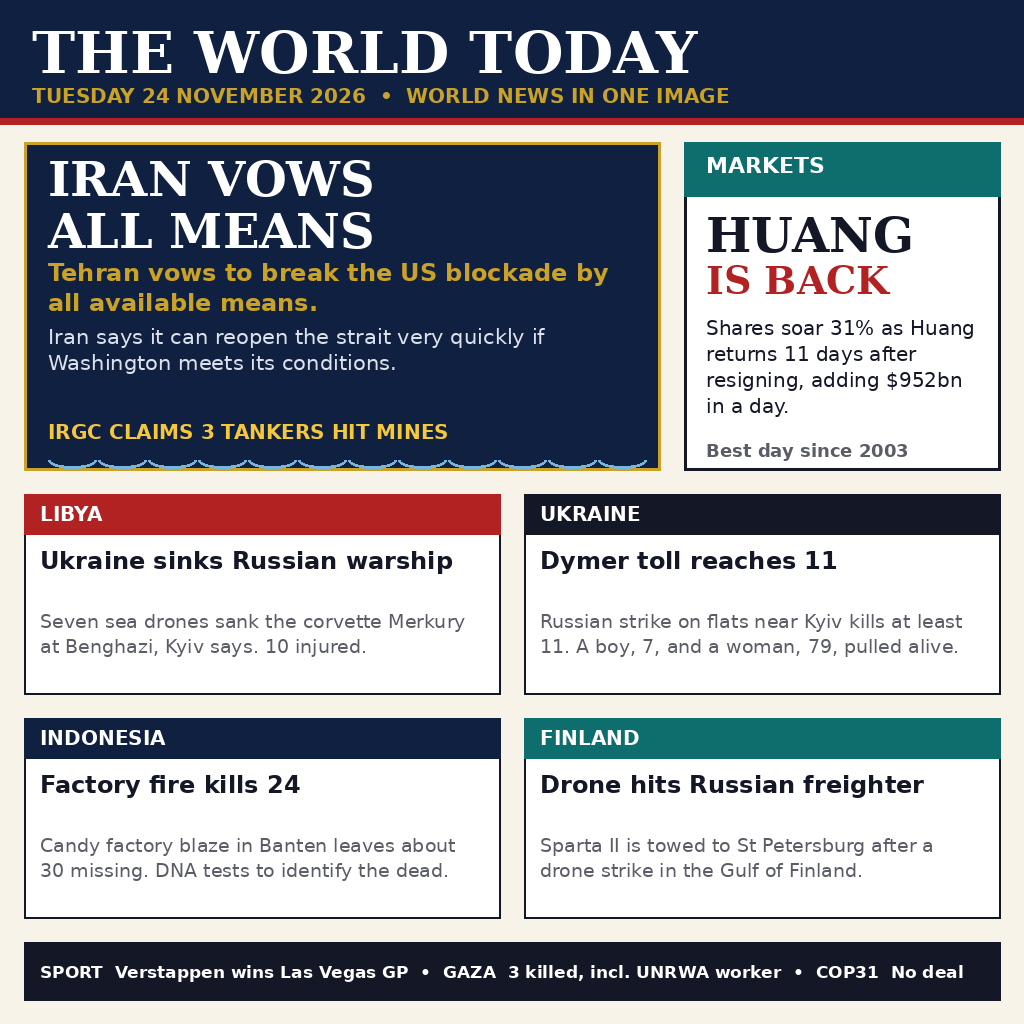
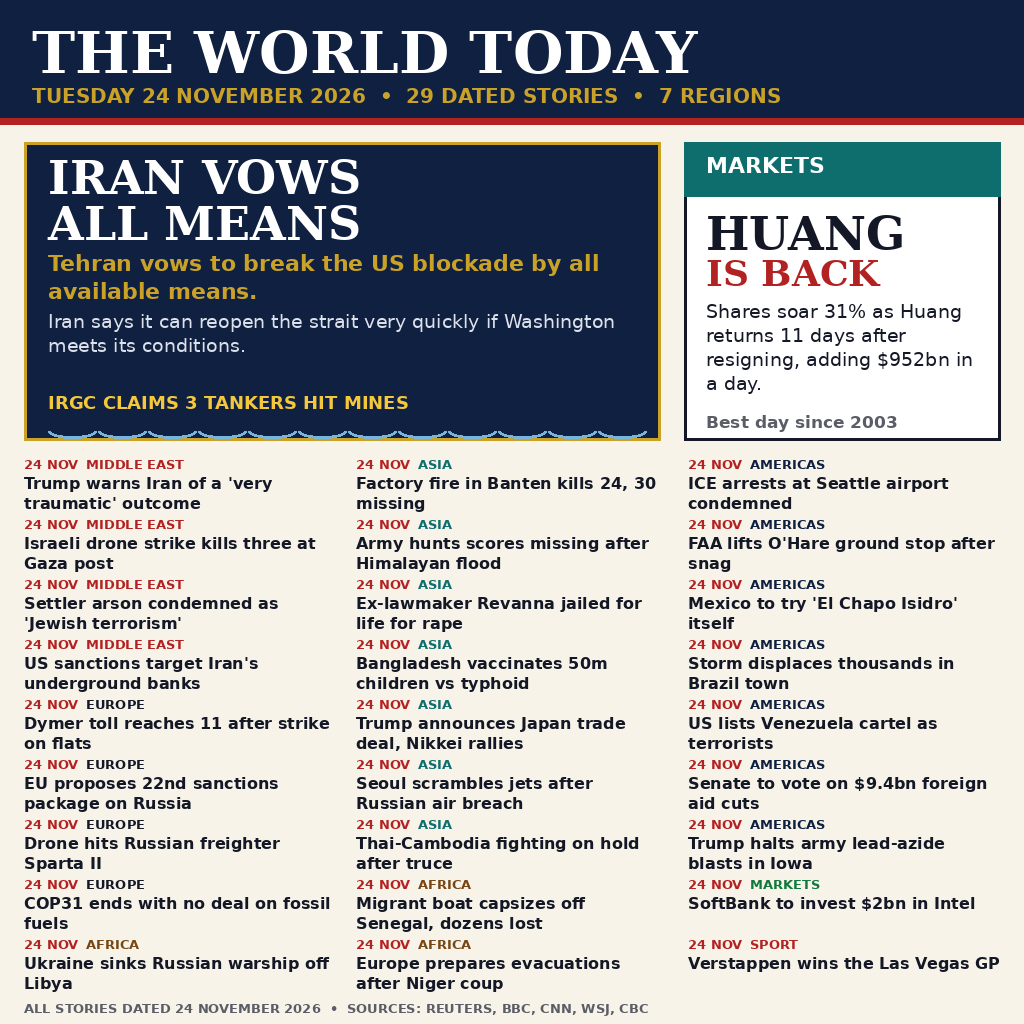
Dense edition: 29 dated stories, 7 regions

Changed region(s): [[0.0, 0.1562, 1.0, 1.0], [0.4062, 0.0625, 0.75, 0.125]]

diff --git a/render.py b/render.py
@@ -1,9 +1,11 @@
 """Render the 24 November 2026 world-news front page, 1024x1024 PNG.
 
+Dense edition: 29 dated stories across 7 regions (2 hero stories plus
+27 dated wire items), the format the 22 November winner used.
 Deterministic: no randomness, no timestamps, no network. Running this
 script twice writes identical bytes (PIL writes no time chunk).
-Headlines verified live on 24 Nov 2026 from Reuters, BBC/France 24 via
-One Turn, BusinessWorld/Reuters, CNN and the Wall Street Journal.
+Headlines verified live on 24 Nov 2026 from Reuters, BBC, CNN, Wall
+Street Journal, CBC World Report, and the day's news roundups.
 """
 import os
 from PIL import Image, ImageDraw, ImageFont
@@ -18,6 +20,7 @@ TEAL = (14, 110, 110)
 GREY = (90, 92, 102)
 WHITE = (255, 255, 255)
 GREEN = (16, 120, 60)
+BROWN = (120, 70, 20)
 
 F = "/usr/share/fonts/truetype/dejavu/"
 
@@ -29,6 +32,47 @@ def font(name, size):
 SERIF = "DejaVuSerif-Bold.ttf"
 SANS = "DejaVuSans.ttf"
 SANS_B = "DejaVuSans-Bold.ttf"
+
+REGION_COLORS = {
+    "MIDDLE EAST": RED,
+    "EUROPE": INK,
+    "ASIA": TEAL,
+    "AMERICAS": NAVY,
+    "AFRICA": BROWN,
+    "MARKETS": GREEN,
+    "SPORT": RED,
+}
+
+# 27 dated wire items, 3 columns of 9: (region, headline).
+WIRE = [
+    ("MIDDLE EAST", "Trump warns Iran of a 'very traumatic' outcome"),
+    ("MIDDLE EAST", "Israeli drone strike kills three at Gaza post"),
+    ("MIDDLE EAST", "Settler arson condemned as 'Jewish terrorism'"),
+    ("MIDDLE EAST", "US sanctions target Iran's underground banks"),
+    ("EUROPE", "Dymer toll reaches 11 after strike on flats"),
+    ("EUROPE", "EU proposes 22nd sanctions package on Russia"),
+    ("EUROPE", "Drone hits Russian freighter Sparta II"),
+    ("EUROPE", "COP31 ends with no deal on fossil fuels"),
+    ("AFRICA", "Ukraine sinks Russian warship off Libya"),
+    ("ASIA", "Factory fire in Banten kills 24, 30 missing"),
+    ("ASIA", "Army hunts scores missing after Himalayan flood"),
+    ("ASIA", "Ex-lawmaker Revanna jailed for life for rape"),
+    ("ASIA", "Bangladesh vaccinates 50m children vs typhoid"),
+    ("ASIA", "Trump announces Japan trade deal, Nikkei rallies"),
+    ("ASIA", "Seoul scrambles jets after Russian air breach"),
+    ("ASIA", "Thai-Cambodia fighting on hold after truce"),
+    ("AFRICA", "Migrant boat capsizes off Senegal, dozens lost"),
+    ("AFRICA", "Europe prepares evacuations after Niger coup"),
+    ("AMERICAS", "ICE arrests at Seattle airport condemned"),
+    ("AMERICAS", "FAA lifts O'Hare ground stop after snag"),
+    ("AMERICAS", "Mexico to try 'El Chapo Isidro' itself"),
+    ("AMERICAS", "Storm displaces thousands in Brazil town"),
+    ("AMERICAS", "US lists Venezuela cartel as terrorists"),
+    ("AMERICAS", "Senate to vote on $9.4bn foreign aid cuts"),
+    ("AMERICAS", "Trump halts army lead-azide blasts in Iowa"),
+    ("MARKETS", "SoftBank to invest $2bn in Intel"),
+    ("SPORT", "Verstappen wins the Las Vegas GP"),
+]
 
 
 def wrap(draw, text, fnt, width):
@@ -56,80 +100,72 @@ def text_block(draw, x, y, text, fnt, color, width, leading=None):
 
 
 def main():
+    assert len(WIRE) == 27, "wire must hold 27 items"
     img = Image.new("RGB", (W, H), BG)
     d = ImageDraw.Draw(img)
     # masthead
     d.rectangle([0, 0, W, 118], fill=NAVY)
     d.text((32, 18), "THE WORLD TODAY", font=font(SERIF, 58), fill=WHITE)
-    d.text((32, 84), "TUESDAY 24 NOVEMBER 2026  •  WORLD NEWS IN ONE IMAGE",
+    d.text((32, 84), "TUESDAY 24 NOVEMBER 2026  •  29 DATED STORIES  •  7 REGIONS",
            font=font(SANS_B, 20), fill=GOLD)
     d.rectangle([0, 118, W, 124], fill=RED)
 
     # hero: Hormuz
-    d.rectangle([24, 142, 660, 470], fill=NAVY)
-    d.rectangle([24, 142, 660, 470], outline=GOLD, width=3)
-    d.text((48, 150), "IRAN VOWS", font=font(SERIF, 48), fill=WHITE)
-    d.text((48, 202), "ALL MEANS", font=font(SERIF, 48), fill=WHITE)
-    y, n = text_block(d, 48, 258,
+    d.rectangle([24, 142, 660, 440], fill=NAVY)
+    d.rectangle([24, 142, 660, 440], outline=GOLD, width=3)
+    d.text((48, 150), "IRAN VOWS", font=font(SERIF, 46), fill=WHITE)
+    d.text((48, 196), "ALL MEANS", font=font(SERIF, 46), fill=WHITE)
+    y, n = text_block(d, 48, 250,
                       "Tehran vows to break the US blockade by all available means.",
-                      font(SANS_B, 24), GOLD, 590, 30)
+                      font(SANS_B, 22), GOLD, 590, 28)
     print("hero sub lines:", n, "ends y:", y)
-    y, n = text_block(d, 48, y + 6,
+    y, n = text_block(d, 48, y + 4,
                       "Iran says it can reopen the strait very quickly if Washington meets its conditions.",
-                      font(SANS, 21), (220, 225, 235), 590, 26)
+                      font(SANS, 19), (220, 225, 235), 590, 24)
     print("hero body lines:", n, "ends y:", y)
-    assert y <= 410, "hero body overflows into banner"
-    d.text((48, 420), "IRGC CLAIMS 3 TANKERS HIT MINES",
-           font=font(SANS_B, 20), fill=(245, 200, 60))
+    assert y <= 386, "hero body overflows into banner"
+    d.text((48, 392), "IRGC CLAIMS 3 TANKERS HIT MINES",
+           font=font(SANS_B, 18), fill=(245, 200, 60))
     for i in range(12):
         wx = 48 + i * 50
-        d.arc([wx, 452, wx + 48, 468], 0, 180, fill=(120, 180, 220), width=3)
+        d.arc([wx, 424, wx + 48, 438], 0, 180, fill=(120, 180, 220), width=3)
 
-    # right panel: Nvidia
-    d.rectangle([684, 142, 1000, 470], fill=(255, 255, 255))
-    d.rectangle([684, 142, 1000, 470], outline=INK, width=3)
+    # hero right: Nvidia
+    d.rectangle([684, 142, 1000, 440], fill=(255, 255, 255))
+    d.rectangle([684, 142, 1000, 440], outline=INK, width=3)
     d.rectangle([684, 142, 1000, 196], fill=TEAL)
     d.text((706, 152), "MARKETS", font=font(SANS_B, 22), fill=WHITE)
-    d.text((706, 206), "HUANG", font=font(SERIF, 48), fill=INK)
-    d.text((706, 258), "IS BACK", font=font(SERIF, 38), fill=RED)
-    y, n = text_block(d, 706, 316,
+    d.text((706, 206), "HUANG", font=font(SERIF, 46), fill=INK)
+    d.text((706, 252), "IS BACK", font=font(SERIF, 36), fill=RED)
+    y, n = text_block(d, 706, 300,
                       "Shares soar 31% as Huang returns 11 days after resigning, adding $952bn in a day.",
-                      font(SANS, 20), INK, 272, 26)
+                      font(SANS, 19), INK, 272, 24)
     print("nvidia body lines:", n, "ends y:", y)
-    assert y <= 432, "nvidia body overflows into footer"
-    d.text((706, 440), "Best day since 2003", font=font(SANS_B, 18), fill=GREY)
+    assert y <= 402, "nvidia body overflows into footer"
+    d.text((706, 412), "Best day since 2003", font=font(SANS_B, 17), fill=GREY)
 
-    # middle grid: 4 stories, 2x2
-    stories = [
-        ("LIBYA", RED, "Ukraine sinks Russian warship",
-         "Seven sea drones sank the corvette Merkury at Benghazi, Kyiv says. 10 injured."),
-        ("UKRAINE", INK, "Dymer toll reaches 11",
-         "Russian strike on flats near Kyiv kills at least 11. A boy, 7, and a woman, 79, pulled alive."),
-        ("INDONESIA", NAVY, "Factory fire kills 24",
-         "Candy factory blaze in Banten leaves about 30 missing. DNA tests to identify the dead."),
-        ("FINLAND", TEAL, "Drone hits Russian freighter",
-         "Sparta II is towed to St Petersburg after a drone strike in the Gulf of Finland."),
-    ]
-    x0, y0, cw, ch, gap = 24, 494, 476, 200, 24
-    for i, (tag, col, head, body) in enumerate(stories):
-        x = x0 + (i % 2) * (cw + gap)
-        y = y0 + (i // 2) * (ch + gap)
-        d.rectangle([x, y, x + cw, y + ch], fill=WHITE)
-        d.rectangle([x, y, x + cw, y + ch], outline=INK, width=2)
-        d.rectangle([x, y, x + cw, y + 40], fill=col)
-        d.text((x + 16, y + 8), tag, font=font(SANS_B, 20), fill=WHITE)
-        y2, n1 = text_block(d, x + 16, y + 52, head, font(SANS_B, 24), INK, cw - 32, 30)
-        y3, n2 = text_block(d, x + 16, y + 116, body, font(SANS, 19), GREY, cw - 32, 25)
-        print("panel", tag, "headline lines:", n1, "body lines:", n2, "body ends y:", y3)
-        assert n1 <= 2 and y3 <= y + ch - 8, "panel overflows: " + tag
+    # wire: 3 columns x 9 dated items
+    col_x = [24, 356, 688]
+    col_w = 312
+    slot = 60
+    y0 = 456
+    for i, (region, head) in enumerate(WIRE):
+        col = i // 9
+        row = i % 9
+        x = col_x[col]
+        y = y0 + row * slot
+        d.text((x, y), "24 NOV", font=font(SANS_B, 13), fill=RED)
+        d.text((x + 62, y), region, font=font(SANS_B, 13),
+               fill=REGION_COLORS[region])
+        _, n = text_block(d, x, y + 18, head, font(SANS_B, 16), INK,
+                          col_w, 20)
+        print("wire", i + 1, region, "lines:", n)
+        assert n <= 2, "wire headline overflows its slot: " + head
+        assert y + 58 <= y0 + 9 * slot, "wire item overflows the grid"
 
-    # bottom strip: sport + Gaza + COP31
-    strip = "SPORT  Verstappen wins Las Vegas GP  •  GAZA  3 killed, incl. UNRWA worker  •  COP31  No deal"
-    sw = d.textlength(strip, font=font(SANS_B, 17))
-    print("strip width:", sw, "limit:", 1000 - 40)
-    assert sw <= 1000 - 40, "bottom strip overflows"
-    d.rectangle([24, 942, 1000, 1000], fill=INK)
-    d.text((40, 962), strip, font=font(SANS_B, 17), fill=WHITE)
+    # footer: source line in the strip the grid leaves free
+    d.text((24, 1000), "ALL STORIES DATED 24 NOVEMBER 2026  •  SOURCES: REUTERS, BBC, CNN, WSJ, CBC",
+           font=font(SANS_B, 13), fill=GREY)
 
     out = os.path.join(os.path.dirname(os.path.abspath(__file__)), "entry.png")
     img.save(out, format="PNG", optimize=True)

diff --git a/main.py b/main.py
@@ -1,8 +1,9 @@
 """Sum up 24 November's world news in one image.
 
 The program copies the front-page image held in this repository to
-/output/entry.png. No network, no randomness, no input: two runs write
-the same bytes.
+the output directory. No network, no randomness, no input: two runs
+write the same bytes. The output directory is /output unless the
+MAKEFUN_OUTPUT_DIR environment variable names another one.
 """
 import os
 import shutil
@@ -10,6 +11,7 @@ import struct
 
 HERE = os.path.dirname(os.path.abspath(__file__))
 SOURCE = os.path.join(HERE, "entry.png")
+OUTPUT_DIR = os.environ.get("MAKEFUN_OUTPUT_DIR", "/output")
 
 
 def _png_size(path: str) -> tuple:
@@ -24,13 +26,17 @@ def _png_size(path: str) -> tuple:
 def main() -> None:
     if not os.path.isfile(SOURCE):
         raise SystemExit("entry.png is missing from the repository")
-    if os.path.getsize(SOURCE) > 1024 * 1024:
-        raise SystemExit("entry.png must be at most 1 MiB")
+    size = os.path.getsize(SOURCE)
+    if size == 0 or size > 1024 * 1024:
+        raise SystemExit("entry.png must be non-empty and at most 1 MiB")
     width, height = _png_size(SOURCE)
     if (width, height) != (1024, 1024):
         raise SystemExit("entry.png must be 1024x1024, got %dx%d" % (width, height))
-    os.makedirs("/output", exist_ok=True)
-    shutil.copyfile(SOURCE, "/output/entry.png")
+    os.makedirs(OUTPUT_DIR, exist_ok=True)
+    dest = os.path.join(OUTPUT_DIR, "entry.png")
+    shutil.copyfile(SOURCE, dest)
+    if os.path.getsize(dest) != size:
+        raise SystemExit("copy of entry.png came out the wrong size")
 
 
 if __name__ == "__main__":
